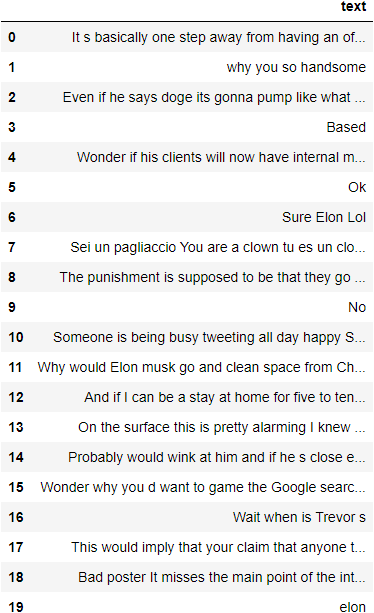
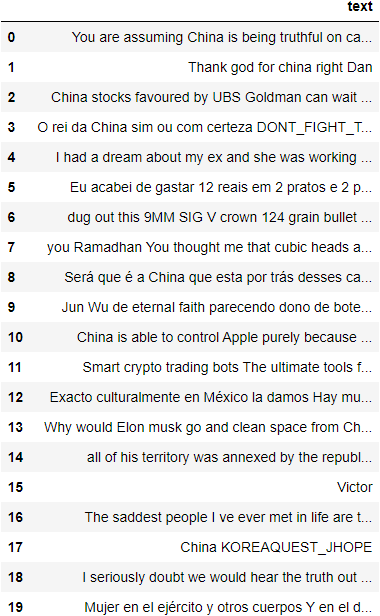
new article

diff --git a/_content/articles/220117_musk_tweet/generated.html b/_content/articles/220117_musk_tweet/generated.html
@@ -19,7 +19,7 @@
 <!-- /wp:paragraph -->
 
 <!-- wp:list {"ordered":true} -->
-<ol><li>Download data from Twitter</li><li>Preprocess the data</li><li>Install sentiment analysis model</li><li>Analyze results</li></ol>
+<ol><li>Download data from Twitter</li><li>Preprocess the data</li><li>Perform sentiment analysis</li><li>Analyze results</li></ol>
 <!-- /wp:list -->
 
 <!-- wp:heading {"textColor":"secondary"} -->
@@ -54,7 +54,7 @@ from time import sleep
 from datetime import datetime
 import os
 
-{'elon_musk': &#91;'elon musk since:2022-01-01 until:2022-01-17', 100], 'vaccine': &#91;'covid vaccine since:2022-01-01 until:2022-01-17', 100]}
+{'elon_musk': ['elon musk since:2022-01-01 until:2022-01-17', 100], 'vaccine': ['covid vaccine since:2022-01-01 until:2022-01-17', 100]}
 </code></pre>
 <!-- /wp:code -->
 
@@ -98,14 +98,73 @@ for index, movie_name in enumerate(movie_dict):
 
 #when importing empty rows, they are transformed to nan, so we need to drop them here
 df = pd.read_csv('download/merged.csv')&#91;&#91;'text']]
-df = df.dropna().reset_index(drop=True)
 df</code></pre>
 <!-- /wp:code -->
 
 <!-- wp:paragraph -->
-<p>Because some of the rows may be null when importing the dataset, I am dropping them and resetting the index. This is a screenshot of the dataframe before preprocessing:</p>
+<p>Because some of the rows may be null when importing the dataset, I am dropping them and resetting the index. I am also going to apply a small preprocessing snippet. Preprocessing is a step that you can customize depending on your needs. In this case, because I only want to get rid of links and non-ascii characters, I am going to use the following two functions:</p>
+<!-- /wp:paragraph -->
+
+<!-- wp:code {"backgroundColor":"primary"} -->
+<pre class="wp-block-code has-primary-background-color has-background"><code>#get rid of links and hashtags
+df&#91;"text"] = df&#91;"text"].apply(lambda x : ' '.join(&#91;s for s in x.split(' ') if s.find('@') == -1 and s.find('www') == -1 and s.find('https') == -1]))
+
+#get rid of non-ascii characters
+df = df.replace(r'\W+', ' ', regex=True)
+df</code></pre>
+<!-- /wp:code -->
+
+<!-- wp:paragraph -->
+<p>This is a screenshot of the dataframe after preprocessing:</p>
 <!-- /wp:paragraph -->
 
 <!-- wp:image {"align":"center","width":480,"height":616,"sizeSlug":"large","className":"is-style-default"} -->
-<div class="wp-block-image is-style-default"><figure class="aligncenter size-large is-resized"><img src="https://raw.githubusercontent.com/arditoibryan/pythonkai/main/_content/articles/220117_musk_tweet/df.png" alt="" width="480" height="616"/><figcaption>df raw</figcaption></figure></div>
+<div class="wp-block-image is-style-default"><figure class="aligncenter size-large is-resized"><img src="https://raw.githubusercontent.com/arditoibryan/pythonkai/main/_content/articles/220117_musk_tweet/df.png" alt="" width="390" height="616"/><figcaption>df raw</figcaption></figure></div>
 <!-- /wp:image -->
+
+<!-- wp:heading {"textColor":"secondary"} -->
+<h2 class="has-secondary-color has-text-color" id="3-perform-sentiment-analysis">3. Perform sentiment analysis</h2>
+<!-- /wp:heading -->
+
+<!-- wp:paragraph -->
+<p>I am now going to apply a sentiment analysis to our cleaned data. There is a myriad of sentiment analysis libraries you can use to perform the same task, from <strong>transformers</strong>, <strong>textblob</strong>, <strong>spacy</strong>. For this tutorial I am going to use the latest version of spacy, and its extension called <a href="https://spacy.io/universe/project/spacy-textblob" target="_blank" rel="noreferrer noopener">spacytextblob</a>.</p>
+<!-- /wp:paragraph -->
+
+<!-- wp:paragraph -->
+<p>To install it, I will need to run the following commands and restart the notebook:</p>
+<!-- /wp:paragraph -->
+
+<!-- wp:code {"backgroundColor":"primary"} -->
+<pre class="wp-block-code has-primary-background-color has-background"><code>!pip install spacytexblob==3.0.1
+!pip install spacy==3.2.1
+!python -m textblob.download_corpora
+!python -m spacy download en_core_web_sm</code></pre>
+<!-- /wp:code -->
+
+<!-- wp:paragraph -->
+<p>Once the installation is complete, we can run the sentiment analysis and append the score to our dataframe:</p>
+<!-- /wp:paragraph -->
+
+<!-- wp:code {"backgroundColor":"primary"} -->
+<pre class="wp-block-code has-primary-background-color has-background"><code>import spacy
+from spacytextblob.spacytextblob import SpacyTextBlob
+
+nlp = spacy.load('en_core_web_sm')
+nlp.add_pipe("spacytextblob")
+
+df&#91;'sentiment'] = df&#91;'text'].apply(lambda x : nlp(x)._.polarity)
+df_sentiment = df.sort_values('sentiment').reset_index(drop=True)
+df_sentiment</code></pre>
+<!-- /wp:code -->
+
+<!-- wp:paragraph -->
+<p>As we can see, this is the final result:</p>
+<!-- /wp:paragraph -->
+
+<!-- wp:image {"align":"center","width":480,"height":616,"sizeSlug":"large","className":"is-style-default"} -->
+<div class="wp-block-image is-style-default"><figure class="aligncenter size-large is-resized"><img src="https://raw.githubusercontent.com/arditoibryan/pythonkai/main/_content/articles/220117_musk_tweet/df_sentiment.png" alt="" width="480" height="616"/><figcaption>sentiment</figcaption></figure></div>
+<!-- /wp:image -->
+
+<!-- wp:paragraph -->
+<p>I decided to sort the values from the most negative, so that we could see some of the most shocking comments regarding Elon Musk.</p>
+<!-- /wp:paragraph -->
